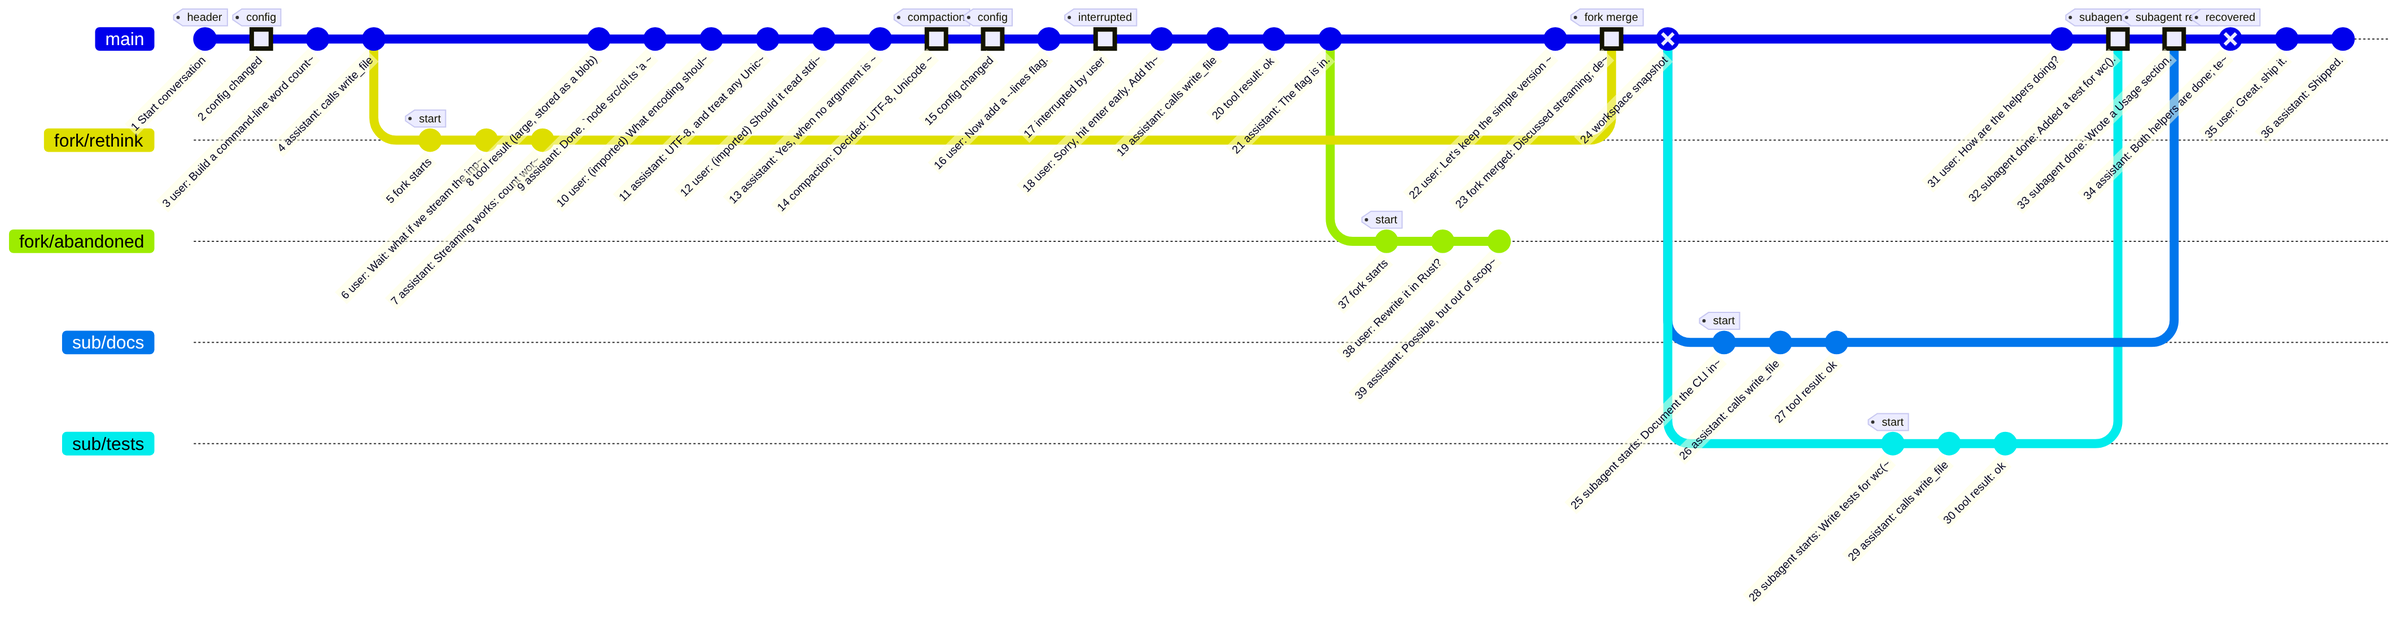
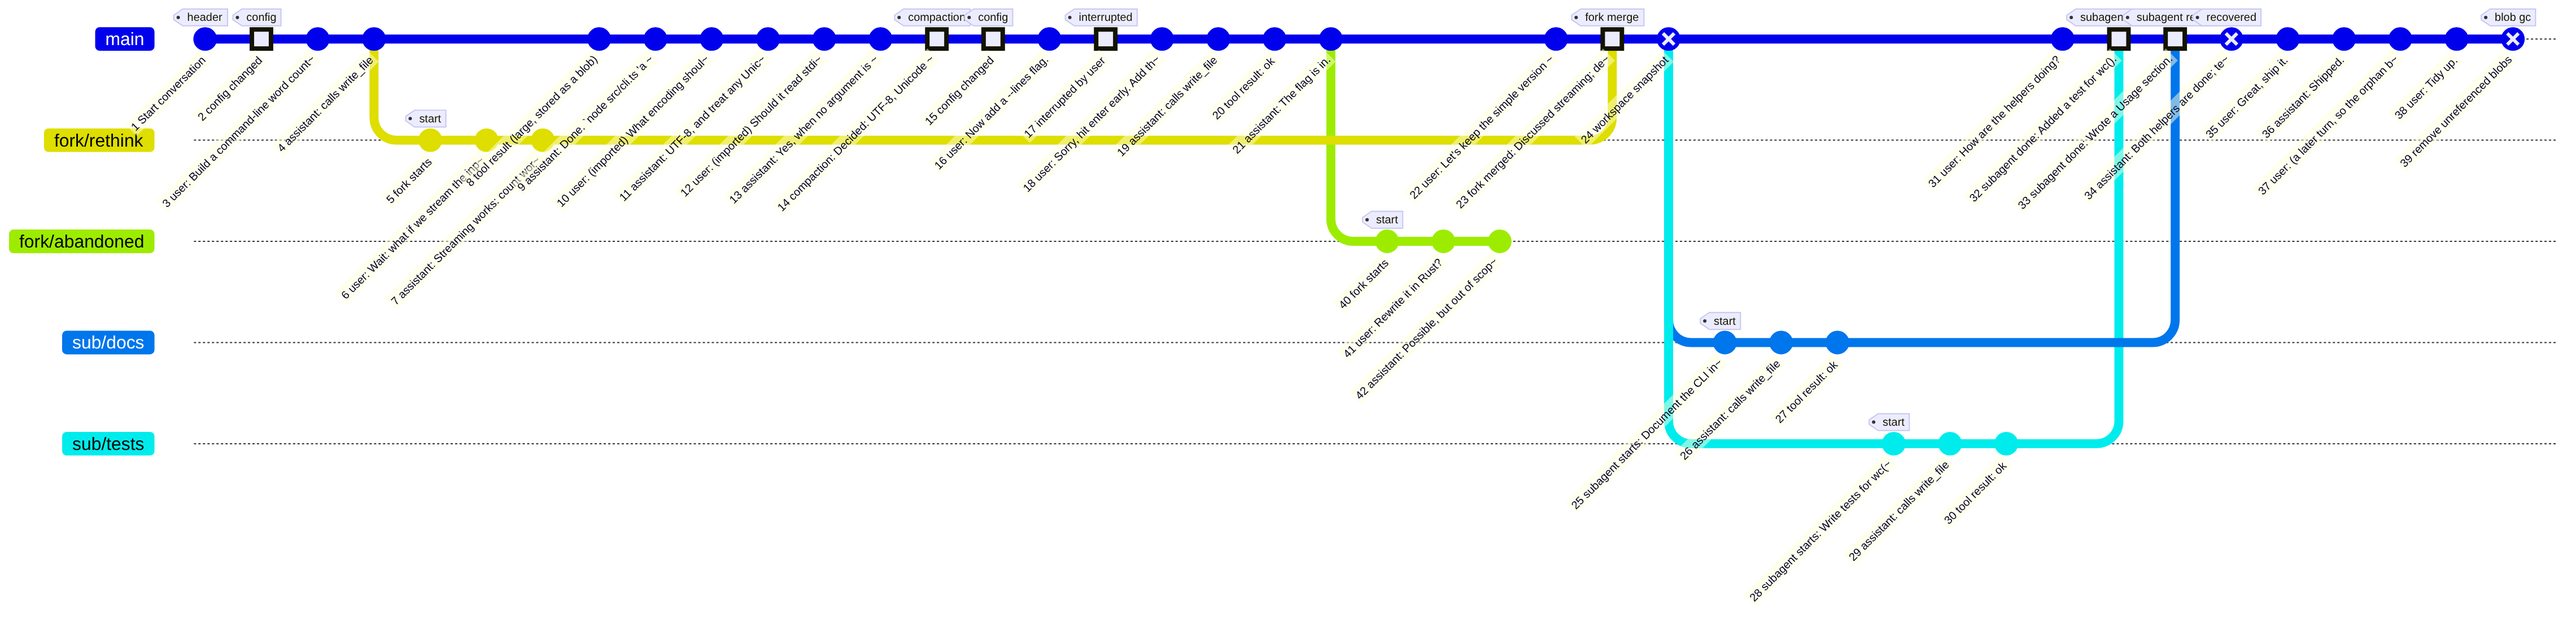
Add housekeeping to the lifecycle test; parking lot; MVP complete
The lifecycle test now runs gcBlobs, pruneWorktrees and close, and the graph shows the GC commit. docs/parking-lot.md records what was left out on purpose, led by per-environment merge policy (file vs hunk).

Claude-Session: https://claude.ai/code/session_011MxoN1t7bewdKBZWDq34KF

diff --git a/test/integration/lifecycle.test.ts b/test/integration/lifecycle.test.ts
@@ -140,7 +140,21 @@ test("a whole conversation: work, import, compaction, forks, subagents, a crash,
   await main.append(user("Great, ship it."));
   await main.append(say("Shipped."));
 
-  // ---- 7. everything agrees --------------------------------------------------------------------------------------------------
+  // ---- 7. housekeeping: leftovers from the failed append, finished worktrees, helper processes -----------------------------------
+  await main.append(user("(a later turn, so the orphan below is swept into a commit)"));
+  await main.store.put(new TextEncoder().encode("x".repeat(6000))); // what a failed append would have left behind
+  await main.append(user("Tidy up."));
+  const gc = await main.gcBlobs();
+  assert.equal(gc.tracked.length, 1);
+  assert.ok(gc.commit !== undefined);
+  const cleanup = await main.pruneWorktrees();
+  assert.deepEqual(cleanup.removed.map((r) => r.branch).sort(), ["fork/rethink", "sub/docs", "sub/tests"]);
+  assert.deepEqual(cleanup.kept.map((k) => k.branch), ["fork/abandoned"], "an unmerged branch keeps its worktree");
+  const objects = await main.git.catFile(); // a long-lived reader left open on purpose
+  assert.ok((await objects.read("HEAD:chat.yml")) !== undefined);
+  await main.close(); // ends it
+
+  // ---- 8. everything agrees --------------------------------------------------------------------------------------------------
   await main.flushEvents();
   await assertHistoryInvariants(main);
   const branches = (await main.listBranches()).map((b) => b.name).sort();
@@ -169,7 +183,7 @@ test("a whole conversation: work, import, compaction, forks, subagents, a crash,
   assert.ok(!kinds.includes("branch_start"), "a branch's own start marker is not part of the trunk");
   assert.equal(final.filter((e) => e.$tag === "interrupted").length, 1);
 
-  // ---- 8. the picture ------------------------------------------------------------------------------------------------------------
+  // ---- 9. the picture ------------------------------------------------------------------------------------------------------------
   const graph = await readCommitGraph(main);
   const mermaid = toMermaid(graph);
   assert.equal(graph.commits.filter((c) => c.parents.length > 1).length, 3, "one merge commit per merged branch");
@@ -178,7 +192,7 @@ test("a whole conversation: work, import, compaction, forks, subagents, a crash,
   assert.equal((mermaid.match(/^ {2}merge /gm) ?? []).length, 3);
   assert.equal((mermaid.match(/^ {2}branch /gm) ?? []).length, 4);
   for (const name of ["fork/rethink", "fork/abandoned", "sub/tests", "sub/docs"]) assert.ok(mermaid.includes(`"${name}"`));
-  assert.ok(mermaid.includes('tag: "recovered"') && mermaid.includes('tag: "compaction"') && mermaid.includes('tag: "config"') && mermaid.includes('tag: "interrupted"'));
+  assert.ok(mermaid.includes('tag: "blob gc"') && mermaid.includes('tag: "recovered"') && mermaid.includes('tag: "compaction"') && mermaid.includes('tag: "config"') && mermaid.includes('tag: "interrupted"'));
 
   const out = process.env["CHATTREE_GRAPH_OUT"];
   if (out !== undefined) {

diff --git a/harness/graph.ts b/harness/graph.ts
@@ -88,7 +88,7 @@ export async function readCommitGraph(convo: Conversation, trunk = convo.branch)
 
   const commits: GraphCommit[] = [];
   for (const c of byHash.values()) {
-    const kind = c.trailers["Chattree-Kind"]?.[0] ?? (c.trailers["Chattree-Snapshot"] !== undefined ? "snapshot" : "commit");
+    const kind = c.trailers["Chattree-Kind"]?.[0] ?? (c.trailers["Chattree-Snapshot"] !== undefined ? "snapshot" : c.trailers["Chattree-Gc"] !== undefined ? "gc" : "commit");
     const offset = Number(c.trailers["Chattree-Offset"]?.[0]);
     commits.push({
       hash: c.hash,
@@ -141,6 +141,7 @@ const TAGGED: Record<string, string> = {
   fork_merge: "fork merge",
   branch_start: "start",
   header: "header",
+  gc: "blob gc",
 };
 
 const clean = (s: string): string => s.replace(/[^\x20-\x7e]/g, "").replace(/["\\]/g, "'").replace(/\s+/g, " ").trim();
@@ -181,9 +182,9 @@ export function toMermaid(graph: CommitGraph, opts: MermaidOptions = {}): string
   const emitted = new Set<string>();
   const emit = (branch: string): void => {
     for (const c of chain.get(branch) ?? []) {
-      if (c.kind !== "snapshot" || showSnapshots) {
+      if ((c.kind !== "snapshot" && c.kind !== "gc") || showSnapshots) {
         const tag = c.recovered ? "recovered" : c.kind === "snapshot" ? undefined : TAGGED[c.kind];
-        const type = c.recovered ? "REVERSE" : c.kind === "snapshot" ? "REVERSE" : c.parents.length > 1 || c.kind === "compaction" || c.kind === "config_changed" || c.kind === "interrupted" ? "HIGHLIGHT" : "NORMAL";
+        const type = c.recovered ? "REVERSE" : c.kind === "snapshot" || c.kind === "gc" ? "REVERSE" : c.parents.length > 1 || c.kind === "compaction" || c.kind === "config_changed" || c.kind === "interrupted" ? "HIGHLIGHT" : "NORMAL";
         const attrs = `id: "${label(c)}"${tag === undefined ? "" : ` tag: "${tag}"`} type: ${type}`;
         const second = c.parents[1] === undefined ? undefined : byHash.get(c.parents[1]);
         if (second !== undefined && second.branch !== branch) lines.push(`  merge ${mainName(second.branch)} ${attrs}`);

diff --git a/docs/parking-lot.md b/docs/parking-lot.md
@@ -1,0 +1,114 @@
+# Parking lot
+
+Things deliberately left out of the MVP, with enough context to pick them up later. Each entry says what it is,
+why it waited, and what a first step would be. Nothing here is needed for correctness today.
+
+## 1. Merge policy per environment, file or hunk (the main one)
+
+**Today.** Merging a subagent or a fork (D6, `finishSubagent`, `mergeFork`) has one policy: *trunk wins, per
+file*. Files only the child changed come across; a file both sides changed keeps the trunk's version whole, and
+the merge entry records exactly what happened (`files.changed/added/discarded`, `merge.conflicts`). That is safe
+and predictable, and it is the right default for code, but it is too blunt for other kinds of work.
+
+**The idea.** The workspace an agent works in is an *environment*, and different environments want different
+rules. Examples:
+
+| Environment | What it wants |
+| --- | --- |
+| Source code | Hunk-level merge; on a true conflict of hunks, trunk wins (or ask). |
+| Prose and docs | Hunk-level merge; on conflict keep both with a marker for a human or a follow-up turn. |
+| Data files, logs, append-only | `union`: keep both sides' additions. |
+| Lockfiles, generated output | Take neither: drop both sides and regenerate (run a command after the merge). |
+| Binary assets | File-level only; child wins if the trunk did not touch it, otherwise trunk. |
+| Notes the agent owns (`notes.md`) | Child wins: the subagent was *asked* to update it. |
+
+Two independent choices make up a policy:
+
+- **Granularity**: `file` (what we have) or `hunk`.
+- **Resolution** for what cannot be merged cleanly: `trunk`, `child`, `union`, `ask` (leave the branch unmerged
+  and tell the model what is in the way), or `regenerate` (drop both, run a command).
+
+**Where it is configured.** In `harness.yml`, so it is versioned, hashed into `config_changed`, and visible in
+the transcript like the rest of the configuration:
+
+```yaml
+merge:
+  default: { granularity: file, resolution: trunk }   # today's behaviour
+  rules:                                              # first match wins
+    - { paths: ["src/**", "test/**"], granularity: hunk, resolution: trunk }
+    - { paths: ["docs/**", "*.md"],   granularity: hunk, resolution: union }
+    - { paths: ["*.lock"],            resolution: regenerate, command: "pnpm install" }
+    - { paths: ["data/**/*.jsonl"],   resolution: union }
+```
+
+The policy used is the one recorded in the *receiving* branch's configuration at merge time, and the merge
+entry records which rule applied to each path, so a later reader never has to guess.
+
+**How hunk-level could be done.** `git merge-tree --write-tree` (which we already use, git ≥ 2.38) reports
+conflicted paths but does not itself offer per-hunk resolution at our minimum version. Two routes:
+
+1. For each conflicted path, run `git merge-file -p --ours|--theirs|--union <current> <base> <other>` on the three
+   versions (read through `catFile`) and write the result into the merge tree with `rewriteTree`. `merge-file`
+   has existed for a very long time, resolves conflicting *hunks* (not whole files) by the chosen side, and
+   needs no new git version. Binary files must be detected first and kept at file level.
+2. Use `merge-tree -X ours|theirs` if and when the minimum version is raised to one that has it (to be checked
+   before relying on it; we avoided depending on it in step 4).
+
+**Format impact.** The merge report grows: per path, the rule that applied, the granularity, and for hunk merges
+the number of hunks taken from each side. That is an additive format change (minor 1.3); `policy: "trunk"` stays
+valid and is simply the default rule.
+
+**Open questions.**
+
+- `ask`: does the merge refuse and leave both branches as they are, or does it merge everything else and report
+  the unresolved paths? Either way the model needs a way to resolve and retry; a "resolve" turn on the child
+  branch is the natural shape.
+- `union` on prose can produce duplicated or contradictory paragraphs; is it only for line-oriented data?
+- Is `regenerate` a merge feature at all, or a post-merge hook the environment owns?
+- Determinism: resolution must depend only on committed state (the three versions and the recorded config), never
+  on timing or on a model call inside the merge, so a merge can be re-verified from the history alone.
+- Interaction with the production layout (item 3): a merge across the code submodule and the chat repository.
+
+**First step.** Put the policy type and rule matching (pure, no git) behind the existing merge code, keep the
+default identical to today's, and add hunk granularity with `merge-file` behind it, with a test per row of the
+table above.
+
+## 2. Repository maintenance
+
+`gc.auto` is off so git never rewrites the repository behind a running conversation. Loose objects (every
+commit writes a few) accumulate. A `maintain()` that runs `git gc` or `git repack` under all branch locks, from
+an explicit call or an idle moment, is the missing piece. History is never rewritten by the library; blob GC
+(`gcBlobs`) only changes the current tree.
+
+## 3. Production workspace split (D8)
+
+The MVP keeps chat and project files in one repository. The production shape keeps the project in a submodule
+with the pointer tracked in the chat repository (plus branch name and a saved diff of uncommitted changes). This
+also lets one agent flow work across several repositories. It touches snapshots, forks, merges and verification.
+
+## 4. A persistent `fast-import` process
+
+Considered and parked on measurement. An append costs two short git processes (stage, commit), about 12 ms; the
+floor is git's own index and commit work. A long-lived `fast-import` would need `checkpoint`/`get-mark` round
+trips for the hash, would leave the index behind the commit (needing `reset` anyway), and would add a process to
+supervise on every handle. `appendMany` already makes bulk writes constant-cost. Revisit only if profiling a real
+agent loop shows process start-up dominating.
+
+## 5. Smaller items
+
+- **Events are in memory.** `onEvent` is delivered after commit, but a crash between commit and delivery loses
+  the event. Consumers that must not miss anything should rebuild from history (`index()`, the `recovery`
+  event); an at-least-once persisted outbox is possible if needed.
+- **Index cache assumption.** A cached index is extended when its tip is an ancestor of HEAD, which for a branch
+  that has only ever advanced is also on its first-parent line. A branch reset to a sibling line that still
+  contains the old tip would be indexed from a longer `git log`, not wrongly, but a first-parent check would
+  make that explicit. `verifyHistory` never uses the cache.
+- **Locks across machines.** Locks are files, which is right for one machine and for local-disk worktrees; a
+  network file system with weak `link`/`rename` semantics is not supported.
+- **Windows.** The `Host` seam keeps Node-specific code out of the core, and paths are built through
+  `host.path`, but the suite has only been run on Linux.
+- **A command-line verifier.** `verifyHistory` and `readCommitGraph` are library calls; a thin CLI over them
+  (`chattree verify`, `chattree graph`) would make them usable on any conversation repository.
+- **Context building for models.** `contextEntries` defines what is visible; turning `subagent_result` and
+  `fork_merge` into prose for a model ("the user forked this conversation here, discussed X, and changed Y"),
+  token counting, and provider adapters belong to the agent loop on top of this library.

diff --git a/docs/git-integration.md b/docs/git-integration.md
@@ -121,6 +121,9 @@ kept. This separates chat from final code and lets one agent flow work across se
 4. Subagents: worktrees, merge, and the result entry. **Done** (see notes below).
 5. `compact`, `changeConfig`, `interrupt`, `verifyHistory`, and fault injection. **Done** (see notes below).
 6. Events, the index hook, and performance work (persistent `cat-file`, `fast-import`). **Done** (see notes below).
+7. Housekeeping: blob GC, finished worktrees, process and crash-debris cleanup. **Done** (see notes below).
+
+**The MVP is complete with step 7.** What was left out on purpose, with reasons and first steps, is in [parking-lot.md](parking-lot.md).
 
 ### Notes from step 2
 
@@ -245,5 +248,28 @@ the new hash), about 15 ms each.
   conflict, an abandoned fork, two subagents, a crash mid-append and recovery), then checks every branch with
   deep `verifyHistory`, `git fsck --strict`, events against history, and the cache against a rebuild. The graph
   is in `docs/lifecycle-graph.md`.
-- **Not done:** orphaned-blob GC, removing finished child worktrees, and a persistent `fast-import` process
-  (a single batch already makes bulk writes constant-cost; per-append use would need the index kept in step).
+- **Left for step 7:** blob GC, finished worktrees, process cleanup; the persistent `fast-import` was parked (see parking-lot.md).
+
+### Notes from step 7
+
+- **`gcBlobs({dryRun?})`.** A failed append can leave its large values behind as blob files. Untracked ones are
+  just deleted; ones a later commit swept up (every append stages the whole worktree) are tracked but
+  unreferenced, and are removed in a new commit carrying `Chattree-Gc: true` and the unchanged `Chattree-Offset`
+  (`verifyHistory` treats it like a snapshot). Only the current tree changes: older commits keep whatever they
+  had, so forks from earlier entries still see their blobs, and history is never rewritten. The commit uses
+  `git commit --only <paths>`, so pending workspace changes are neither committed nor disturbed. The scan
+  refuses if any entry no longer validates, because it could hide a reference.
+- **Finished worktrees.** `removeWorktree(branch)` refuses a branch that is not merged into the current one or
+  whose worktree has uncommitted changes (unless `force`), and never the handle's own. `finishSubagent` and
+  `mergeFork` take `removeWorktree: true` (default off, so a caller can still look at a child after merging).
+  `pruneWorktrees()` removes every worktree that qualifies and reports why it kept the others.
+- **Crash debris.** `open` removes what an interrupted process leaves behind, and reports it in
+  `recovery.cleaned`: half-written `*.tmp-<12 hex>` files in the worktree root and in `blobs/` (these matter:
+  the next append would have committed them), temporary git indexes older than ten minutes, and lock files set
+  aside during a takeover older than the stale timeout. Only our own naming patterns are touched, and files
+  whose age the host cannot tell are left alone (`FileStat.mtimeMs` is optional).
+- **Processes.** `Git` tracks the `cat-file` sessions it starts; `Conversation.close()` (also
+  `[Symbol.asyncDispose]`) delivers pending events and closes them. A session's `close` first lets requests
+  already made finish, then closes git's input and waits for it to exit, killing it after a timeout if it does
+  not. The handle stays usable afterwards. There is no persistent `fast-import`: every `fast-import` is a
+  one-shot process that ends with its stream.

diff --git a/README.md b/README.md
@@ -1,13 +1,13 @@
 # chattree
 
-Model-neutral agent harness whose conversation history lives in Git. This repository currently holds the foundation: the transcript codec (`src/`), the harness schemas (`harness/`) and tests.
+Model-neutral agent harness whose conversation history lives in Git. **The MVP is complete**; what was deliberately left out is in `docs/parking-lot.md`. This repository holds: the transcript codec (`src/`), the harness schemas (`harness/`) and tests.
 
 The codec is a proof of concept: a strict, append-only YAML-subset codec for git-backed conversation transcripts, with tagged entries, a generic schema pipeline and a config-file layer.
 Format spec: [docs/format.md](./docs/format.md).
 
 ```
 pnpm install
-pnpm test        # 505 tests: codec, fuzz, framing, tags, cross-check against `yaml`, blobs, schema pipeline, harness schemas, config, host, git, lock, conversation, fork and subagents with crash injection, compaction/config events, history verification, random-operation fuzzing, batched git reads and fast-import, events and the index cache, and an end-to-end lifecycle test (needs git >= 2.38 on PATH)
+pnpm test        # 515 tests: codec, fuzz, framing, tags, cross-check against `yaml`, blobs, schema pipeline, harness schemas, config, host, git, lock, conversation, fork and subagents with crash injection, compaction/config events, history verification, random-operation fuzzing, batched git reads and fast-import, events and the index cache, an end-to-end lifecycle test, and housekeeping (blob GC, worktrees, crash debris, processes) (needs git >= 2.38 on PATH)
 pnpm typecheck   # src is checked with no Node types; tests and bench with @types/node
 pnpm bench       # strings vs bytes, see below
 ```
@@ -36,7 +36,7 @@ developed on 22.23 because that is what the sandbox had.
 | `src/git/` | `Git`: a typed wrapper over the git command line with fixed safety settings (see docs/git-integration.md) |
 | `src/lock.ts` | Lock files with stale takeover, over `Fs.createExclusive` |
 | `hosts/node.ts` | The local-machine `Host`; the only code that imports Node |
-| `harness/` | The harness schemas (zod): entries, blocks, ULIDs, config; `Conversation` (create, open with crash recovery, append, entry index, fork, subagents, fork merge, compact, interrupt, config changes), the context view (`contextEntries`), `appendMany`, `onEvent` events, the entry-index cache, `verifyHistory`, `readCommitGraph`/`toMermaid` (see `docs/lifecycle-graph.md`), and the file-backed blob store |
+| `harness/` | The harness schemas (zod): entries, blocks, ULIDs, config; `Conversation` (create, open with crash recovery, append, entry index, fork, subagents, fork merge, compact, interrupt, config changes), the context view (`contextEntries`), `appendMany`, `onEvent` events, the entry-index cache, `gcBlobs`, `pruneWorktrees`, `close`, `verifyHistory`, `readCommitGraph`/`toMermaid` (see `docs/lifecycle-graph.md`), and the file-backed blob store |
 
 `src/` uses only web-standard globals (`TextEncoder`, `TextDecoder`, `crypto.subtle`), so it should run
 unchanged on Node, Deno, Bun and browsers. Its tsconfig has `types: []` to enforce that.

diff --git a/docs/lifecycle-graph.md b/docs/lifecycle-graph.md
@@ -17,8 +17,8 @@ CHATTREE_GRAPH_OUT=docs/lifecycle-graph.md pnpm test -- test/integration/lifecyc
   Highlighted squares are structural events: `config`, `compaction`, `interrupted`, and the three merges
   (`fork merge`, `subagent result` x2).
 - A cross marks a commit that is not an ordinary entry: the **workspace snapshot** taken before the subagents
-  started (so they begin from the uncommitted work), and the **recovered** entry committed by `open` after the
-  simulated crash.
+  started (so they begin from the uncommitted work), the **recovered** entry committed by `open` after the
+  simulated crash, and the **blob gc** commit that removed an unreferenced blob a failed append had left behind.
 - Branches are drawn at the commit they started from, whole, even though in time they ran alongside `main`.
   `fork/abandoned` was never merged; its history stays reachable.
 - Both merges that touched a file `main` had also edited (`notes.md`, `README.md`) kept `main`'s version, and
@@ -61,9 +61,9 @@ gitGraph
   commit id: "21 assistant: The flag is in." type: NORMAL
   branch "fork/abandoned"
   checkout "fork/abandoned"
-  commit id: "37 fork starts" tag: "start" type: NORMAL
-  commit id: "38 user: Rewrite it in Rust?" type: NORMAL
-  commit id: "39 assistant: Possible, but out of scop~" type: NORMAL
+  commit id: "40 fork starts" tag: "start" type: NORMAL
+  commit id: "41 user: Rewrite it in Rust?" type: NORMAL
+  commit id: "42 assistant: Possible, but out of scop~" type: NORMAL
   checkout main
   commit id: "22 user: Let's keep the simple version ~" type: NORMAL
   merge "fork/rethink" id: "23 fork merged: Discussed streaming; de~" tag: "fork merge" type: HIGHLIGHT
@@ -86,4 +86,7 @@ gitGraph
   commit id: "34 assistant: Both helpers are done; te~" tag: "recovered" type: REVERSE
   commit id: "35 user: Great, ship it." type: NORMAL
   commit id: "36 assistant: Shipped." type: NORMAL
+  commit id: "37 user: (a later turn, so the orphan b~" type: NORMAL
+  commit id: "38 user: Tidy up." type: NORMAL
+  commit id: "39 remove unreferenced blobs" tag: "blob gc" type: REVERSE
 ```
